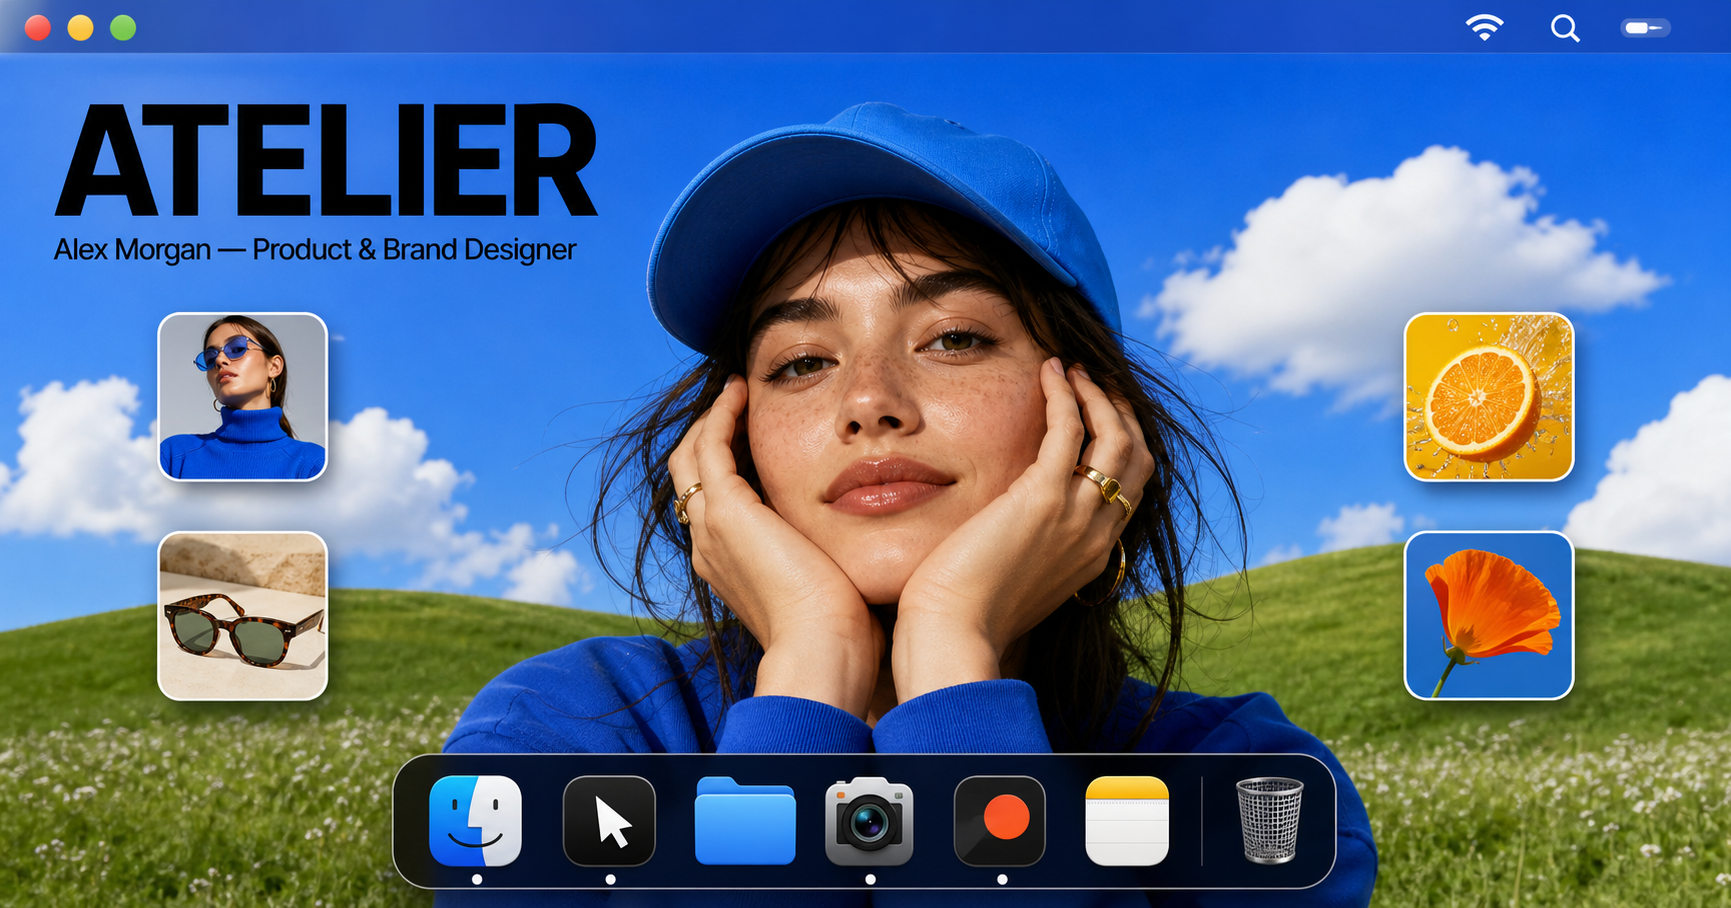
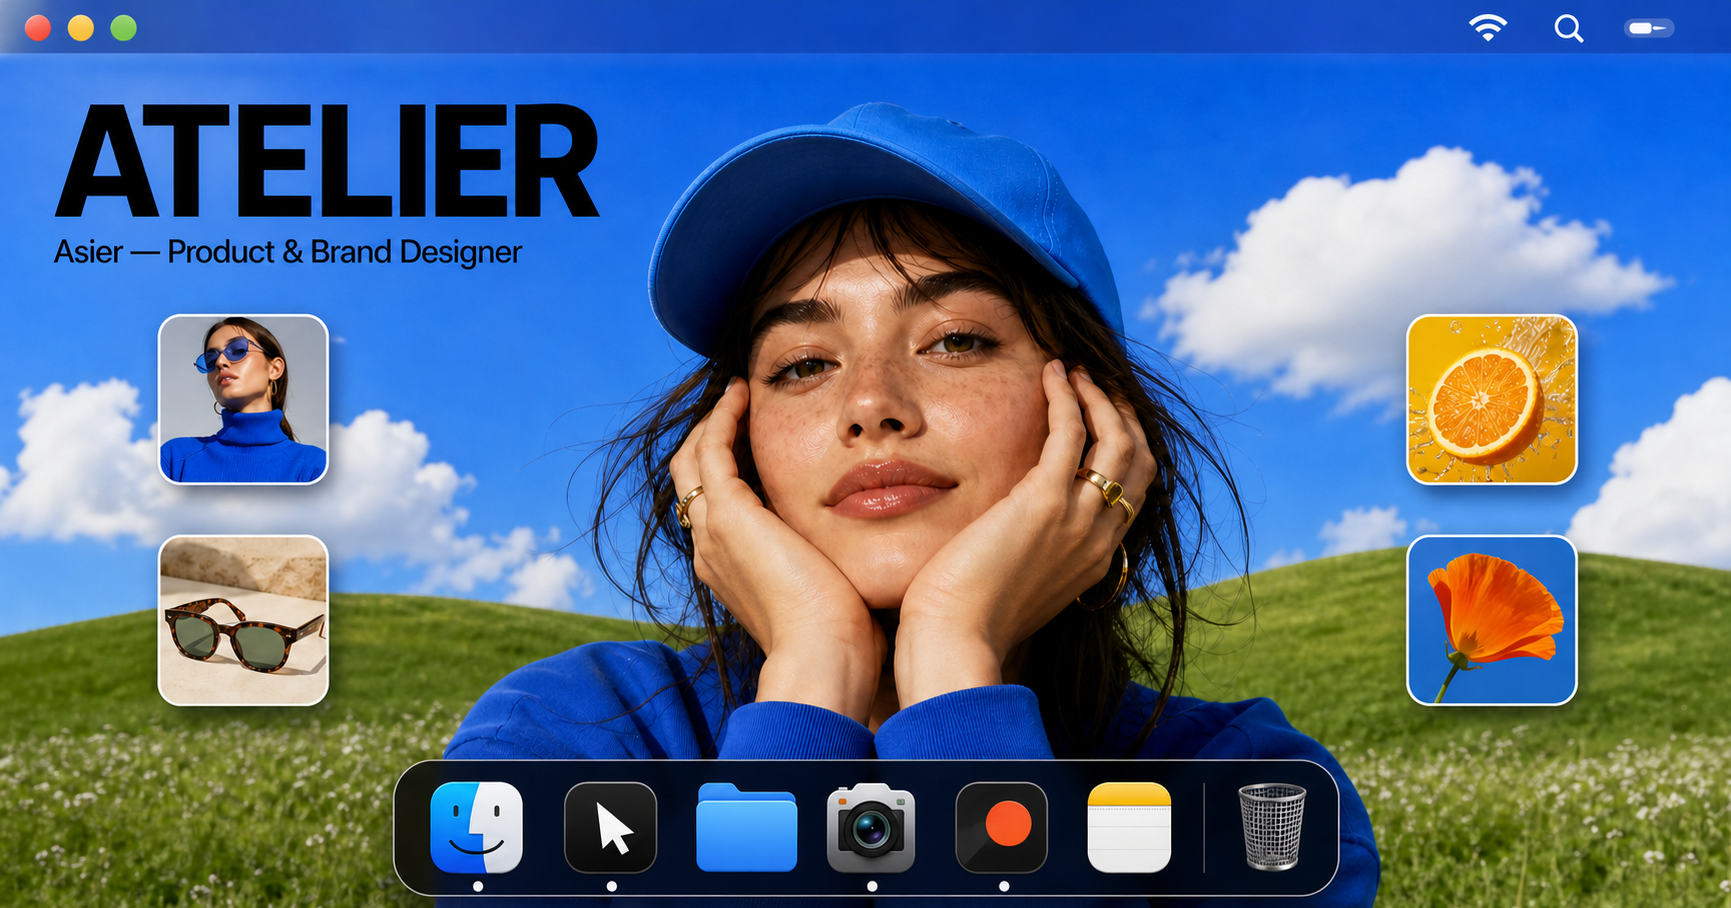
Personalize the portfolio for Asier

diff --git a/app/page.tsx b/app/page.tsx
@@ -161,7 +161,7 @@ const apps = [
 ] as const;
 
 type AppId = (typeof apps)[number]["id"];
-type WindowState = { kind: "project"; project: Project } | { kind: "app"; app: AppId } | { kind: "folder" };
+type WindowState = { kind: "project"; project: Project } | { kind: "app"; app: AppId } | { kind: "folder" } | { kind: "video" };
 
 function Clock({ compact = false }: { compact?: boolean }) {
   const [now, setNow] = useState<Date | null>(null);
@@ -261,25 +261,61 @@ function AppWindow({ app, onClose }: { app: AppId; onClose: () => void }) {
     );
   }
   if (app === "claude") {
-    return <WindowShell title="Claude Code" onClose={onClose} variant="dark"><div className="terminal"><p><span>alex@atelier</span> ~ % claude</p><p className="terminal-logo">✳</p><h2>Good afternoon, Alex</h2><p>What are we making today?</p><p className="prompt"><span>›</span> <i>Try “build a portfolio that feels like a place”</i><b /></p><small>Atelier workspace · main</small></div></WindowShell>;
+    return <WindowShell title="Claude Code" onClose={onClose} variant="dark"><div className="terminal"><p><span>asier@atelier</span> ~ % claude</p><p className="terminal-logo">✳</p><h2>Good afternoon, Asier</h2><p>What are we making today?</p><p className="prompt"><span>›</span> <i>Try “build a portfolio that feels like a place”</i><b /></p><small>Atelier workspace · main</small></div></WindowShell>;
   }
   if (app === "notes") {
-    return <WindowShell title="Notes" onClose={onClose}><div className="notes-app"><aside><b>Notes</b><span>Today</span><p>About Alex</p><span>Yesterday</span><p>Things to make</p><p>People to call</p></aside><article><small>18 July 2026 at 14:08</small><h2>About Alex</h2><p>Independent product and brand designer working across identity, campaigns, digital experiences, and editorial systems.</p><p>I like clear ideas, good images, useful details, and work that earns a second look.</p><h3>Currently</h3><ul><li>Available for selected collaborations</li><li>Based between London and Copenhagen</li><li>Always open to a good coffee</li></ul></article></div></WindowShell>;
+    return <WindowShell title="Notes" onClose={onClose}><div className="notes-app"><aside><b>Notes</b><span>Today</span><p>About Asier</p><span>Yesterday</span><p>Things to make</p><p>People to call</p></aside><article><small>18 July 2026 at 14:08</small><h2>About Asier</h2><p>Independent product and brand designer working across identity, campaigns, digital experiences, and editorial systems.</p><p>I like clear ideas, good images, useful details, and work that earns a second look.</p><h3>Currently</h3><ul><li>Available for selected collaborations</li><li>Based in Zurich</li><li>Always open to a good coffee</li></ul></article></div></WindowShell>;
   }
   if (app === "photos") {
     return <WindowShell title="Photos" onClose={onClose}><div className="photos-app"><header><h2>Library</h2><span>10 Photos</span></header><div>{projects.map((project) => <img key={project.id} src={project.image} alt={project.title} />)}</div></div></WindowShell>;
   }
   if (app === "x") {
-    return <WindowShell title="X" onClose={onClose}><div className="social-app"><div className="avatar">AM</div><div><h2>Alex Morgan <small>@alexmakes</small></h2><p>Independent designer. Images, identities, interfaces—and occasionally a desktop that looks suspiciously like 2007.</p><div className="social-card"><img src="/atelier/projects/bloom-sneaker.jpg" alt="Bloom sneaker campaign" /><p>New work: Bloom, where trail running meets full bloom.</p></div><small>9:42 AM · Jul 18, 2026</small></div></div></WindowShell>;
+    return <WindowShell title="X" onClose={onClose}><div className="social-app"><div className="avatar">AB</div><div><h2>Asier <small>@asiermakes</small></h2><p>Independent designer. Images, identities, interfaces—and occasionally a desktop that looks suspiciously like 2007.</p><div className="social-card"><img src="/atelier/projects/bloom-sneaker.jpg" alt="Bloom sneaker campaign" /><p>New work: Bloom, where trail running meets full bloom.</p></div><small>9:42 AM · Jul 18, 2026</small></div></div></WindowShell>;
   }
   if (app === "mail") {
-    return <WindowShell title="New Message" onClose={onClose}><form className="mail-app" action="mailto:hello@alexmorgan.studio"><label>To: <span>Alex Morgan &lt;hello@alexmorgan.studio&gt;</span></label><label>Subject: <input aria-label="Subject" placeholder="Project enquiry" /></label><textarea aria-label="Message" placeholder="Hello Alex," /><button type="submit">Send</button></form></WindowShell>;
+    return <WindowShell title="New Message" onClose={onClose}><form className="mail-app" action="mailto:hello@asier.studio"><label>To: <span>Asier &lt;hello@asier.studio&gt;</span></label><label>Subject: <input aria-label="Subject" placeholder="Project enquiry" /></label><textarea aria-label="Message" placeholder="Hello Asier," /><button type="submit">Send</button></form></WindowShell>;
   }
   return <WindowShell title="Trash" onClose={onClose}><div className="empty-trash"><img src="/atelier/doc-icons/trash.png" alt="" /><h2>Trash is Empty</h2><p>Nothing to see here. A rare and beautiful state.</p></div></WindowShell>;
 }
 
-function FolderWindow({ onClose }: { onClose: () => void }) {
-  return <WindowShell title="Don't Open" onClose={onClose}><div className="folder-app"><h2>You opened it.</h2><p>That’s exactly the kind of curiosity I like working with.</p><a href="mailto:hello@alexmorgan.studio">Let’s make something ↗</a></div></WindowShell>;
+function FolderWindow({ onClose, onOpenVideo }: { onClose: () => void; onOpenVideo: () => void }) {
+  const sidebar = [
+    ["iCloud", "Recents", "Shared"],
+    ["Favorites", "Desktop", "Applications", "Projects", "MotionIn.Design", "Work", "Movies", "Downloads", "Documents"],
+  ];
+
+  return <WindowShell title="Don't Open" onClose={onClose}>
+    <div className="finder-app">
+      <div className="finder-toolbar">
+        <div className="finder-arrows"><span>‹</span><span>›</span></div>
+        <b><span className="tiny-folder" />Don&apos;t Open</b>
+        <div className="finder-tools"><button aria-label="Icon view">⌘</button><button aria-label="List view">☷</button><button aria-label="Column view">▥</button><button aria-label="Gallery view">▧</button><span className="finder-search" /></div>
+      </div>
+      <div className="finder-content">
+        <aside>{sidebar.map((group) => <div key={group[0]}><h3>{group[0]}</h3>{group.slice(1).map((item, index) => <p key={item}><i className={index === 0 && group[0] === "Favorites" ? "blue" : ""} />{item}</p>)}</div>)}</aside>
+        <div className="finder-files">
+          <button className="movie-file" aria-label="Open Dont play this video.mov" onDoubleClick={onOpenVideo} onClick={onOpenVideo}>
+            <span className="mov-icon"><i /><b>▻</b><small>MOV</small></span>
+            <strong>Dont play this<br />video.mov</strong>
+          </button>
+        </div>
+      </div>
+      <div className="finder-status"><div><span className="tiny-folder" />Macintosh HD <b>›</b> Users <b>›</b> asier <b>›</b> Desktop <b>›</b> <strong>Don&apos;t Open</strong></div><span>1 item</span></div>
+    </div>
+  </WindowShell>;
+}
+
+function VideoWindow({ onClose }: { onClose: () => void }) {
+  return <WindowShell title="Dont play this video.mov" onClose={onClose} variant="dark">
+    <div className="video-app">
+      <iframe
+        src="https://www.youtube.com/embed/dQw4w9WgXcQ?autoplay=1&rel=0&modestbranding=1"
+        title="Rick Astley — Never Gonna Give You Up"
+        allow="autoplay; encrypted-media; picture-in-picture"
+        allowFullScreen
+      />
+    </div>
+  </WindowShell>;
 }
 
 export default function Home() {
@@ -302,8 +338,8 @@ export default function Home() {
   };
 
   return (
-    <main className="desktop" aria-label="Alex Morgan — interactive desktop portfolio" onClick={(event) => { if (event.target === event.currentTarget) setSelected(null); }}>
-      <h1 className="sr-only">Alex Morgan — Independent Product and Brand Designer</h1>
+    <main className="desktop" aria-label="Asier — interactive desktop portfolio" onClick={(event) => { if (event.target === event.currentTarget) setSelected(null); }}>
+      <h1 className="sr-only">Asier — Independent Product and Brand Designer</h1>
 
       <div className="menu-bar desktop-only">
         <div><span className="menu-mark" /><b>Atelier</b><span>File</span><span>Edit</span><span>View</span><span>Window</span><span>Help</span></div>
@@ -331,9 +367,10 @@ export default function Home() {
 
       {activeWindow?.kind === "project" && <ProjectWindow project={activeWindow.project} onClose={closeWindow} />}
       {activeWindow?.kind === "app" && <AppWindow app={activeWindow.app} onClose={closeWindow} />}
-      {activeWindow?.kind === "folder" && <FolderWindow onClose={closeWindow} />}
+      {activeWindow?.kind === "folder" && <FolderWindow onClose={closeWindow} onOpenVideo={() => setActiveWindow({ kind: "video" })} />}
+      {activeWindow?.kind === "video" && <VideoWindow onClose={closeWindow} />}
 
-      <div className="portfolio-stamp desktop-only"><span>↘</span><div><small>Independent designer</small><b>Alex Morgan</b></div></div>
+      <div className="portfolio-stamp desktop-only"><span>↘</span><div><small>Independent designer</small><b>Asier</b></div></div>
     </main>
   );
 }

diff --git a/app/globals.css b/app/globals.css
@@ -121,11 +121,43 @@ button { color: inherit; }
 .mail-app input { width: calc(100% - 65px); border: 0; outline: 0; }
 .mail-app textarea { min-height: 280px; padding: 19px 5px; resize: none; border: 0; outline: 0; line-height: 1.6; }
 .mail-app button { justify-self: end; border: 0; border-radius: 20px; padding: 8px 18px; color: white; background: #1476e8; cursor: pointer; }
-.empty-trash, .folder-app { height: 100%; display: grid; place-content: center; justify-items: center; padding: 40px; text-align: center; }
+.empty-trash { height: 100%; display: grid; place-content: center; justify-items: center; padding: 40px; text-align: center; }
 .empty-trash img { width: 100px; height: 100px; object-fit: contain; }
-.empty-trash h2, .folder-app h2 { margin: 18px 0 3px; font-size: 28px; }
-.empty-trash p, .folder-app p { color: #777; }
-.folder-app a { margin-top: 20px; padding: 12px 17px; border-radius: 99px; color: #fff; background: #151515; text-decoration: none; }
+.empty-trash h2 { margin: 18px 0 3px; font-size: 28px; }
+.empty-trash p { color: #777; }
+
+.finder-app { height: 100%; display: grid; grid-template-rows: 52px 1fr 30px; background: #fff; color: #222; }
+.finder-toolbar { display: grid; grid-template-columns: 150px 1fr auto; align-items: center; padding: 0 18px; border-bottom: 1px solid #d8d7d3; background: #ecebe7; }
+.finder-arrows { display: flex; gap: 18px; color: #9b9b9a; font-size: 29px; font-weight: 300; }
+.finder-toolbar > b { display: flex; align-items: center; gap: 10px; font-size: 16px; }
+.tiny-folder { display: inline-block; width: 17px; height: 12px; border-radius: 2px; background: #3aa7ed; position: relative; }
+.tiny-folder::before { content: ""; position: absolute; left: 1px; top: -3px; width: 8px; height: 4px; border-radius: 2px 2px 0 0; background: #3aa7ed; }
+.finder-tools { display: flex; align-items: center; gap: 2px; }
+.finder-tools button { width: 30px; height: 30px; padding: 0; border: 0; background: rgba(255,255,255,.64); color: #666; font-size: 19px; cursor: default; }
+.finder-tools button:first-child { border-radius: 9px 0 0 9px; }
+.finder-tools button:nth-child(4) { border-radius: 0 9px 9px 0; }
+.finder-search { width: 17px; height: 17px; margin-left: 24px; border: 2px solid #888; border-radius: 50%; position: relative; }
+.finder-search::after { content: ""; position: absolute; right: -6px; bottom: -4px; width: 7px; height: 2px; transform: rotate(48deg); background: #888; border-radius: 2px; }
+.finder-content { min-height: 0; display: grid; grid-template-columns: 205px 1fr; }
+.finder-content aside { padding: 18px; overflow: auto; border-right: 1px solid #d8d7d3; background: #ecebe7; }
+.finder-content aside div + div { margin-top: 20px; }
+.finder-content aside h3 { margin: 0 0 9px; color: #858585; text-transform: uppercase; font-size: 11px; letter-spacing: .04em; }
+.finder-content aside p { margin: 2px 0; display: flex; align-items: center; gap: 11px; font-size: 14px; line-height: 29px; }
+.finder-content aside i { width: 15px; height: 15px; flex: 0 0 auto; border-radius: 4px; background: #8793a6; }
+.finder-content aside i.blue { background: #55aaf0; }
+.finder-files { min-width: 0; padding: 36px 44px; background: #fff; }
+.movie-file { width: 110px; display: flex; flex-direction: column; align-items: center; gap: 12px; padding: 0; border: 0; background: transparent; cursor: pointer; }
+.movie-file > strong { font-size: 13px; line-height: 1.25; font-weight: 500; }
+.mov-icon { width: 58px; height: 78px; display: block; position: relative; border: 1px solid #d0d0d0; border-radius: 3px; background: linear-gradient(135deg, #f9f9f9, #efefef); box-shadow: 0 1px 2px rgba(0,0,0,.18); color: #aaa; }
+.mov-icon::before { content: ""; position: absolute; right: -1px; top: -1px; width: 17px; height: 17px; background: linear-gradient(225deg, #fff 50%, #d9d9d9 51%, #eee 55%); }
+.mov-icon i { position: absolute; left: 18px; top: 27px; width: 20px; height: 17px; border: 2px solid #b9b9b9; border-radius: 4px; }
+.mov-icon b { position: absolute; left: 37px; top: 26px; font-size: 18px; font-weight: 400; }
+.mov-icon small { position: absolute; left: 0; right: 0; bottom: 5px; font-size: 9px; }
+.finder-status { min-width: 0; display: flex; justify-content: space-between; align-items: center; padding: 0 14px; border-top: 1px solid #d8d7d3; background: #ecebe7; color: #757575; font-size: 11px; }
+.finder-status > div { display: flex; align-items: center; gap: 7px; white-space: nowrap; overflow: hidden; text-overflow: ellipsis; }
+.finder-status strong { color: #3d3d3d; }
+.video-app { height: 100%; display: grid; place-items: center; padding: 12px; background: #000; }
+.video-app iframe { width: 100%; height: 100%; min-height: 360px; border: 0; background: #000; }
 
 .portfolio-stamp { position: absolute; right: 17px; bottom: 15px; z-index: 4; display: flex; gap: 9px; align-items: center; padding: 7px 11px; border: 1px solid rgba(0,0,0,.14); border-radius: 4px; background: rgba(255,255,255,.93); box-shadow: 0 2px 6px rgba(0,0,0,.12); }
 .portfolio-stamp > span { color: #ff6700; font-size: 21px; font-weight: 700; }
@@ -172,6 +204,15 @@ button { color: inherit; }
   .avatar { width: 42px; height: 42px; }
   .browser-bar { grid-template-columns: 20px 20px 1fr; }
   .browser-bar button { display: none; }
+  .finder-toolbar { grid-template-columns: 55px 1fr auto; padding: 0 10px; }
+  .finder-content { grid-template-columns: 1fr; }
+  .finder-content aside { display: none; }
+  .finder-files { padding: 35px; }
+  .finder-tools button { display: none; }
+  .finder-search { margin-left: 0; margin-right: 5px; }
+  .finder-status { font-size: 9px; }
+  .video-app { padding: 0; }
+  .video-app iframe { min-height: 240px; }
 }
 
 @media (prefers-color-scheme: dark) {

diff --git a/app/layout.tsx b/app/layout.tsx
@@ -6,8 +6,8 @@ import "./globals.css";
 const geistSans = Geist({ variable: "--font-geist-sans", subsets: ["latin"] });
 const geistMono = Geist_Mono({ variable: "--font-geist-mono", subsets: ["latin"] });
 
-const title = "Atelier — Alex Morgan";
-const description = "The interactive desktop portfolio of independent product and brand designer Alex Morgan.";
+const title = "Atelier — Asier";
+const description = "The interactive desktop portfolio of independent product and brand designer Asier.";
 
 export async function generateMetadata(): Promise<Metadata> {
   const requestHeaders = await headers();
@@ -19,7 +19,7 @@ export async function generateMetadata(): Promise<Metadata> {
     title,
     description,
     icons: { icon: "/favicon.svg", shortcut: "/favicon.svg" },
-    openGraph: { title, description, type: "website", images: [{ url: image, width: 1536, height: 1024, alt: "Atelier — Alex Morgan" }] },
+    openGraph: { title, description, type: "website", images: [{ url: image, width: 1536, height: 1024, alt: "Atelier — Asier" }] },
     twitter: { card: "summary_large_image", title, description, images: [image] },
   };
 }
